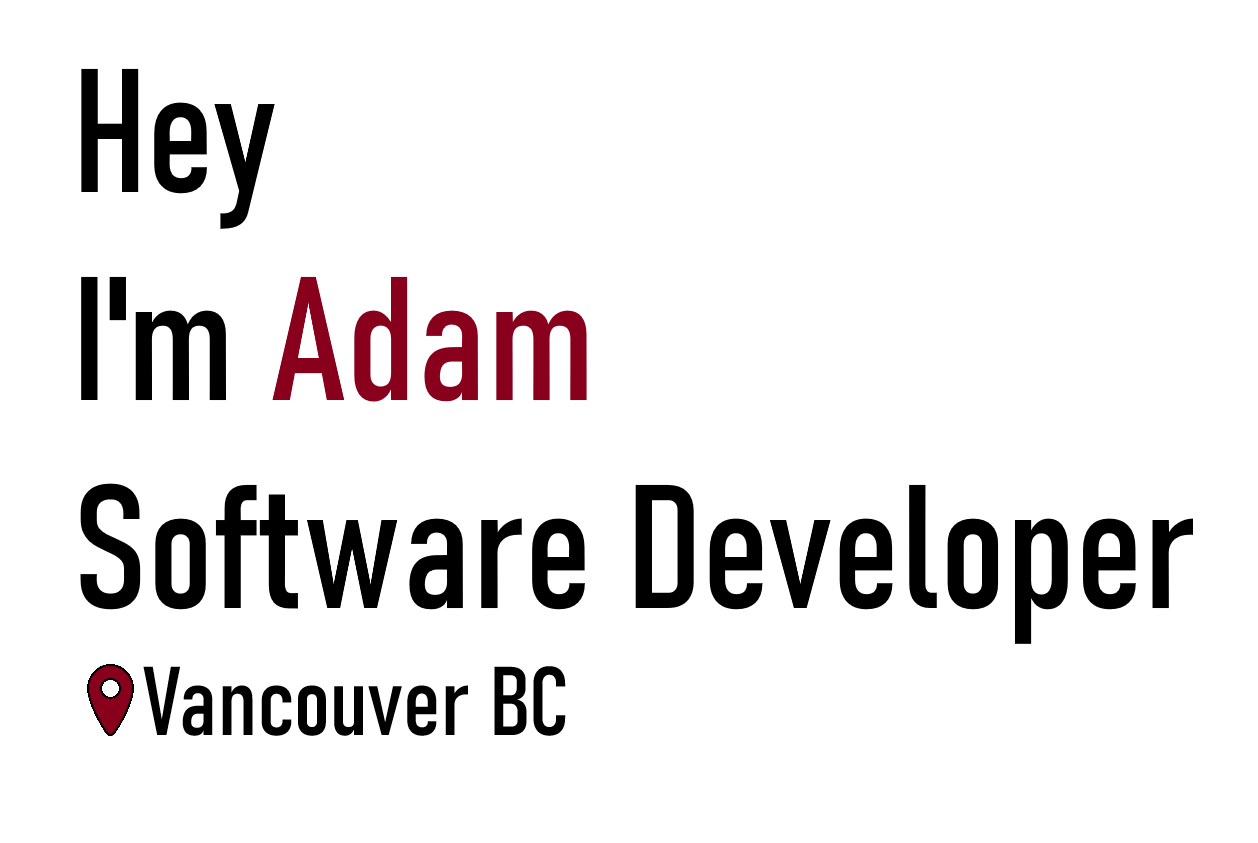
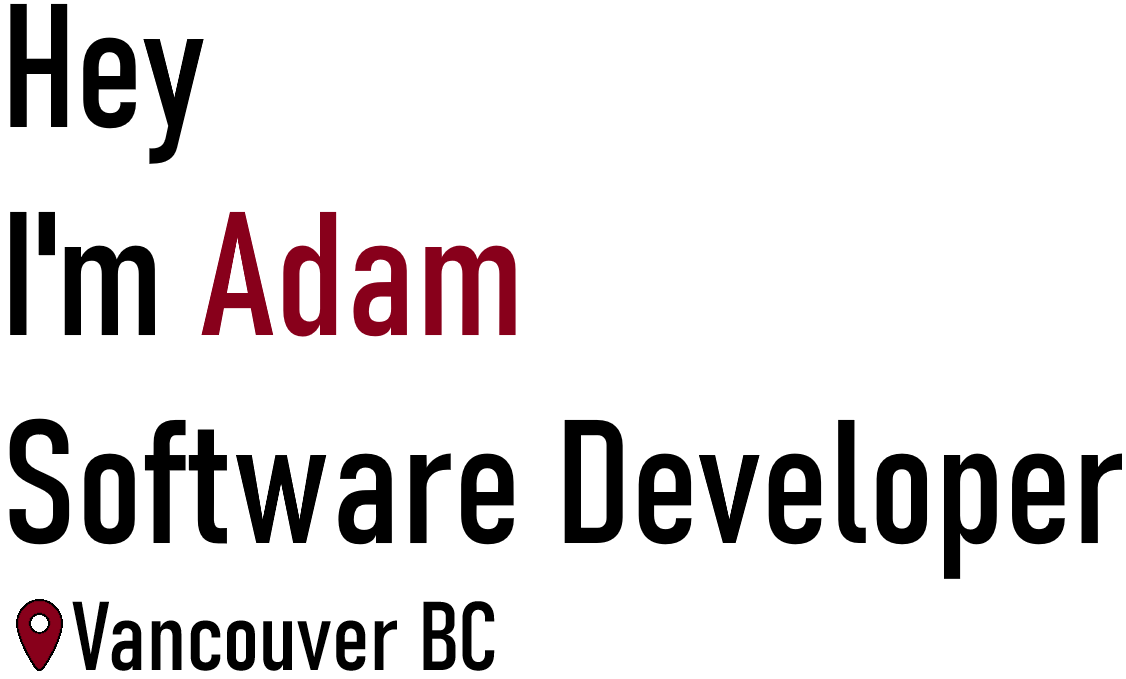
work on navigation bar

diff --git a/style.css b/style.css
@@ -3,10 +3,9 @@
 p,a,li,ol,ul,div,span{
     font-family: "Inter";
 }
-
+/*
 nav a {
-    color: #757ea0;
-    text-decoration: none;
+    text-align: center;
     transition: 0.3s ease; 
     padding: 0.5rem 0.8rem;
     margin-left: 0.5rem;
@@ -16,18 +15,47 @@ nav a {
     font-size: 1.6rem;
 }
 
+*/
+nav a {
+    color: #757ea0;
+    text-decoration: none;
+}
+
 nav a:hover {
     color: #bac4ec;
     border-color: transparent;
-    border-radius: 0.8rem;
+}
 
+li a:hover {
+    background-color: #757ea0;
+
+}
+
+ul {
+    list-style-type: none;
+    margin: 0;
+    padding: 0;
+    overflow: hidden;
+    display: flex;
+    justify-content: center;
+}
+
+li a {
+    display: inline-block;
+    text-align: center;
+    padding: 25px 30px;
+    font-weight: 600;
+    font-size: 1.4rem;
+}
+
+li {
+    display: inline;
 }
 
 .top-bar{
     background-color: #0b1324;
     position: fixed;
-    padding: 2.5rem;
-    display: flex;
+    /*padding: 1.5rem;*/
     justify-content: space-between;
     align-items: center;
     width: 100%;
@@ -36,24 +64,26 @@ nav a:hover {
     z-index:1000;
 }
 
+/*
+.page-links {
+    position: absolute;
+    left: 50%;
+    top: 50%;
+    transform: translate(-50%, -50%);
+}
+*/
+  
 body {
     /*background-color: rgb(219, 216, 216)*/
-    background-color: rgb(190, 189, 189)
+    background-color: rgb(190, 189, 189);
+    overflow-x: hidden; /* Hide horizontal scrollbar */
+    width: 100%; /* Ensure width does not exceed viewport */
+    /*box-sizing: border-box; /* Ensure padding and border are included in element's total width */
 }
-
-.page-links {
-  float: none;
-  position: absolute;
-  left: 50%;
-  top: 50%;
-  transform: translate(-50%, -50%);
-}
-
 
 .introduction{
     padding: auto;
     position: relative;
-    left: 30%;
     z-index: 500;
 }
 
@@ -61,25 +91,22 @@ body {
     margin-top: 5rem;
     padding: auto;
     position: relative;
-    
     z-index: 500;
 }
 
 
 .main-content{
-    top: 4rem;
     padding: auto;
     position: relative;
-    overflow: hidden; /* Add this line */
+    overflow: hidden;
     z-index: 500;
 }
 
 .hello-img {
     position: relative;
-    top: 9rem;
-    left: -15%;
+    top: 5rem;
     width: auto;
-    height: 30rem; /* Adjust the height to take into account the navigation bar */
+    height: 25rem; /* Adjust the height to take into account the navigation bar */
     z-index: 0; /* Lower z-index than the top-bar */
 
 }
@@ -94,11 +121,7 @@ body {
     z-index: 0; /* Lower z-index than the top-bar */
 }
 
-@media (max-width: 480px) {
-    .headshot-img  {
-        display: none;
-    }
-}
+
 
 .home-page-top-line {
     border: none;
@@ -119,13 +142,23 @@ body {
     right: 0;
     bottom: 0;
     width: auto;
-    height: calc(100vh - 4rem); /* Adjust the height to take into account the navigation bar */
+    height: calc(100vh - 25px); /* Adjust the height to take into account the navigation bar */
     z-index: 0; /* Lower z-index than the top-bar */
 }
+
 
 @media (max-width: 480px) {
     .about-img  {
         display: none;
+    }
+    .headshot-img  {
+        display: none;
+    }
+    .hello-img  {
+        margin-left: 0;
+        margin-right: 0;
+        display: block;
+        margin: auto;
     }
 }
 

diff --git a/index.html b/index.html
@@ -10,16 +10,18 @@
     <body>
         <div class="top-bar">
             <nav class="page-links">
-                <a href="index.html">Home</a>
-                <a href="pages/blog.html">Blog</a>
-                <a href="pages/about.html">About Me</a>
+                <ul>
+                    <li><a href="index.html">Home</a></li>
+                    <li><a href="pages/blog.html">Blog</a></li>
+                    <li><a href="pages/about.html">About Me</a></li>
+                </ul>
             </nav>
         </div>
 
         <div class="main-page">
             <div class="introduction">
                 <img src="../images/helloMessage.png" alt="" class="hello-img">
-                <img src="../images/headshot.png" alt="" class="headshot-img">
+                <!--img src="../images/headshot.png" alt="" class="headshot-img"-->
             </div> 
             <div class="main-content">
                 <hr class="home-page-top-line">

diff --git a/pages/about.html b/pages/about.html
@@ -10,9 +10,11 @@
     <body>
         <div class="top-bar">
             <nav class="page-links">
-                <a href="../index.html">Home</a>
-                <a href="blog.html">Blog</a>
-                <a href="about.html">About Me</a>
+                <ul>
+                    <li><a href="../index.html">Home</a></li>
+                    <li><a href="blog.html">Blog</a></li>
+                    <li><a href="about.html">About Me</a></ul></li>
+                </ul>
             </nav>
         </div>
         <div class="main-page">
